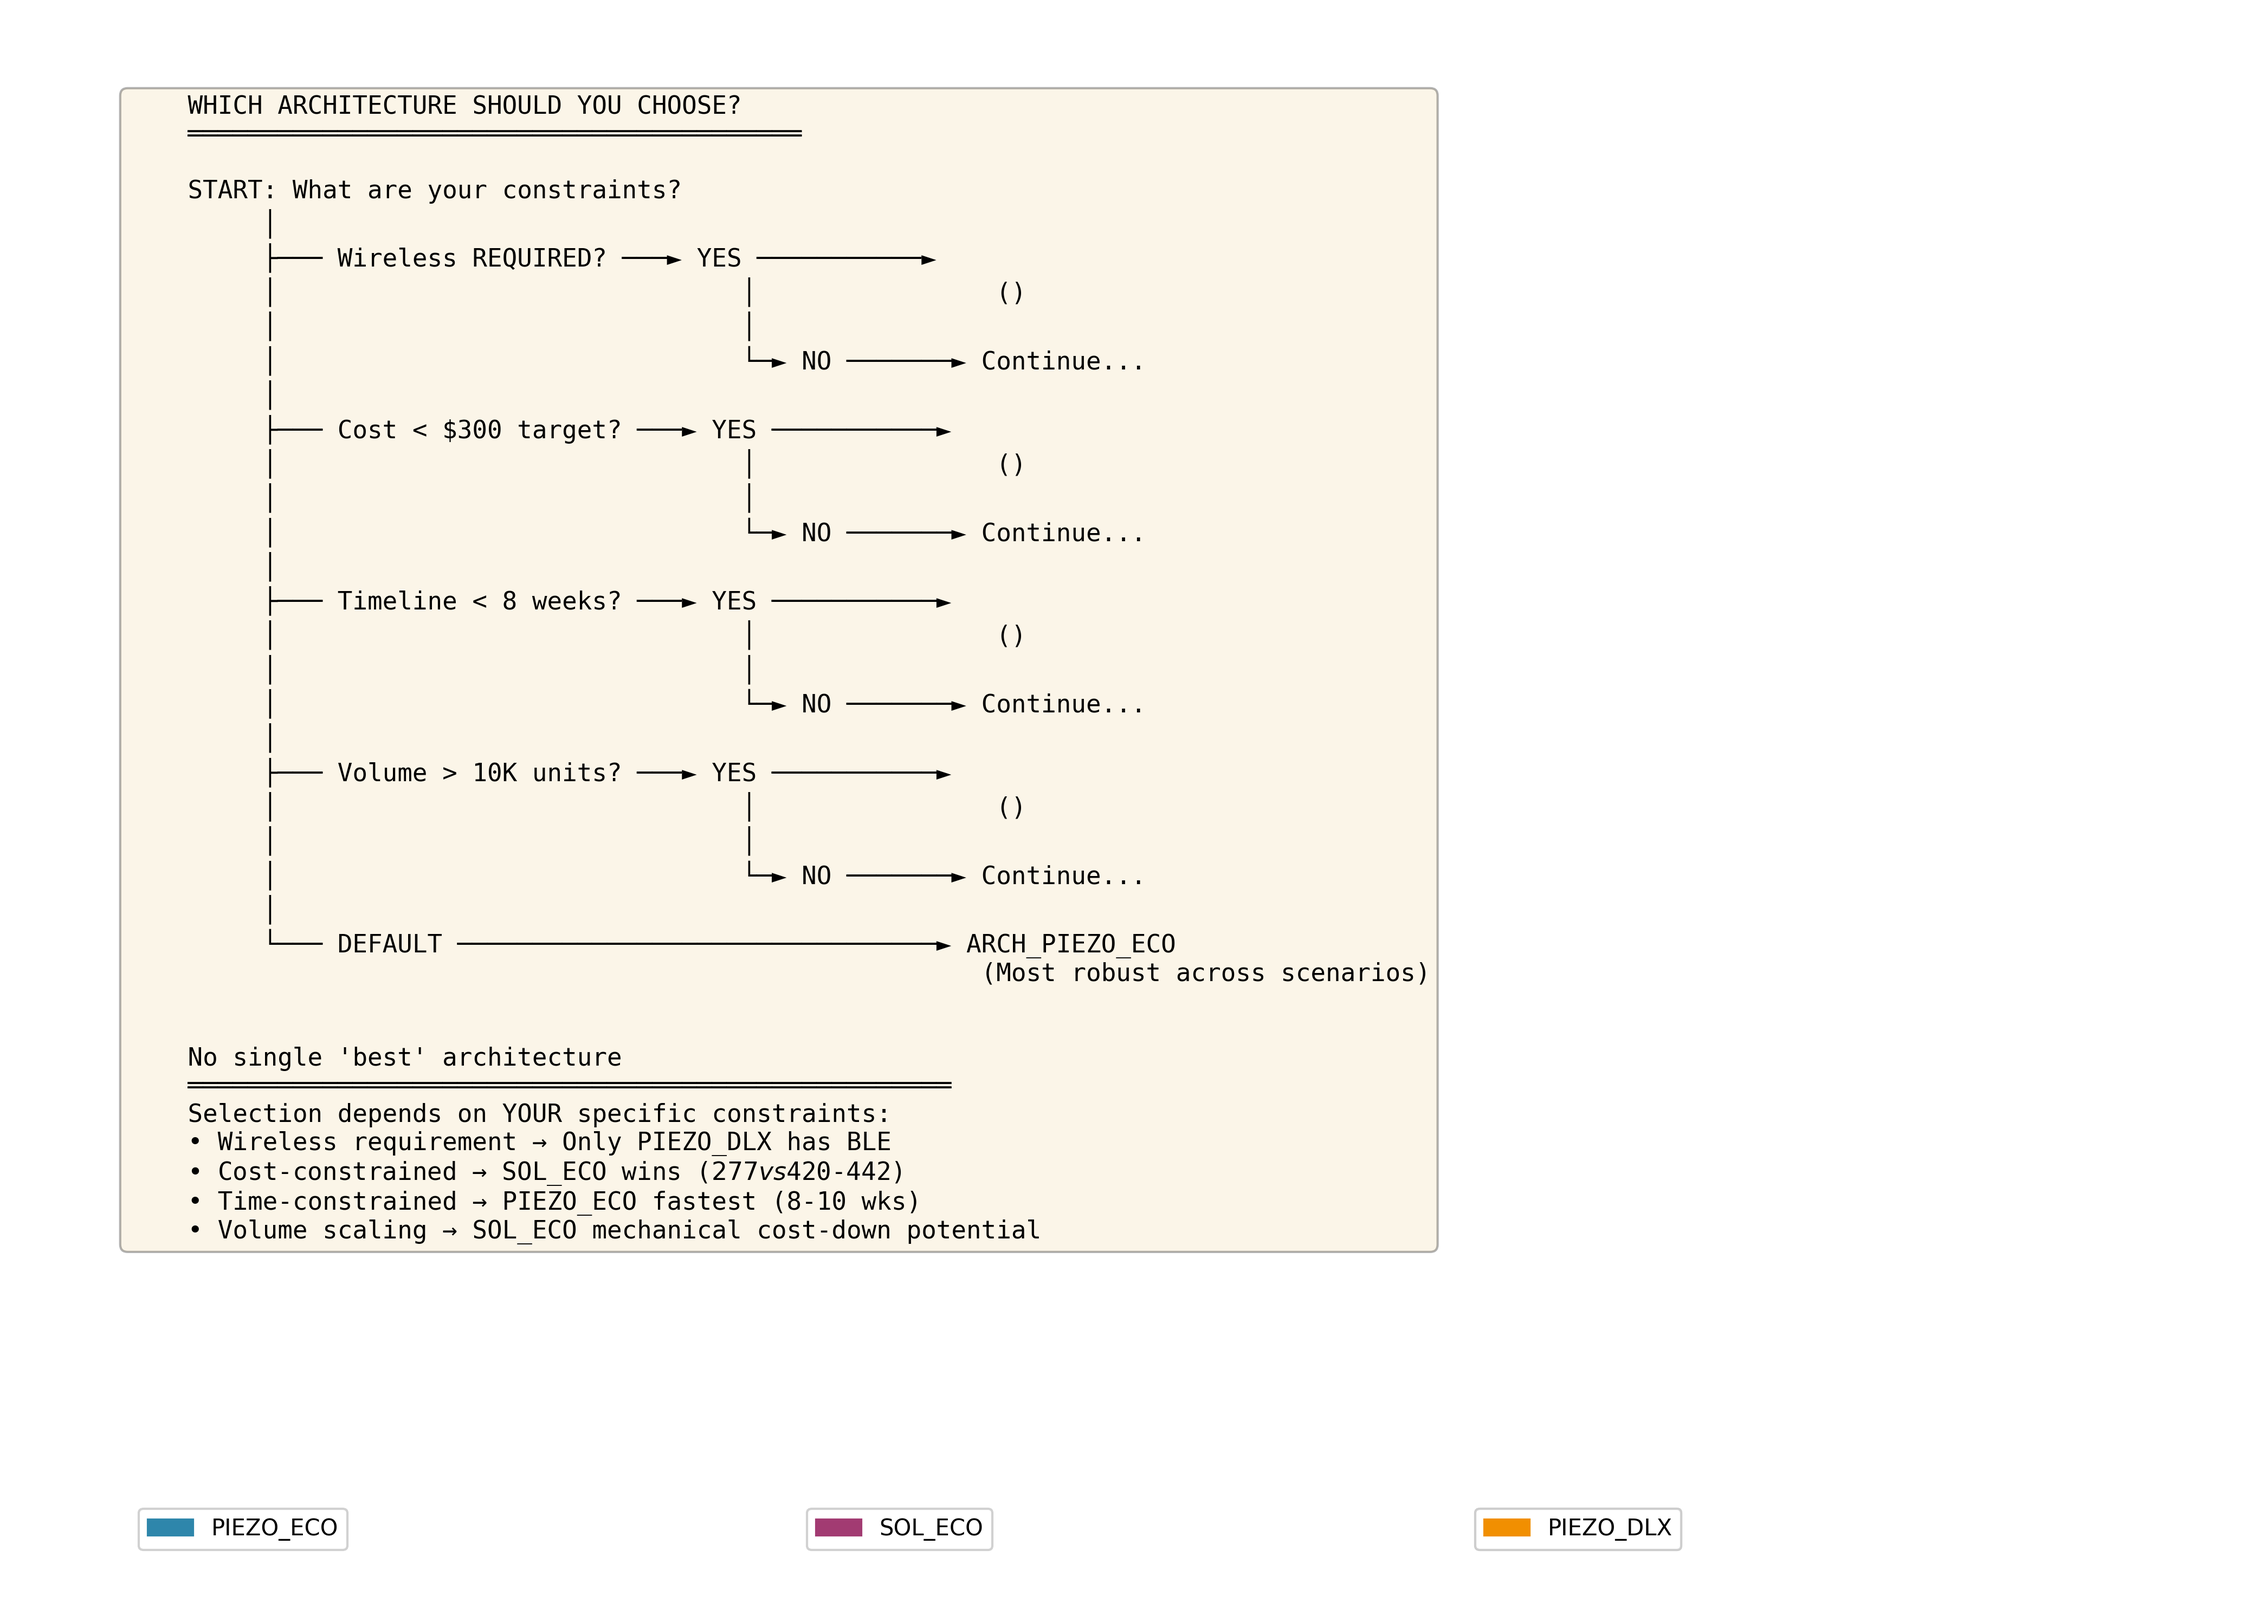
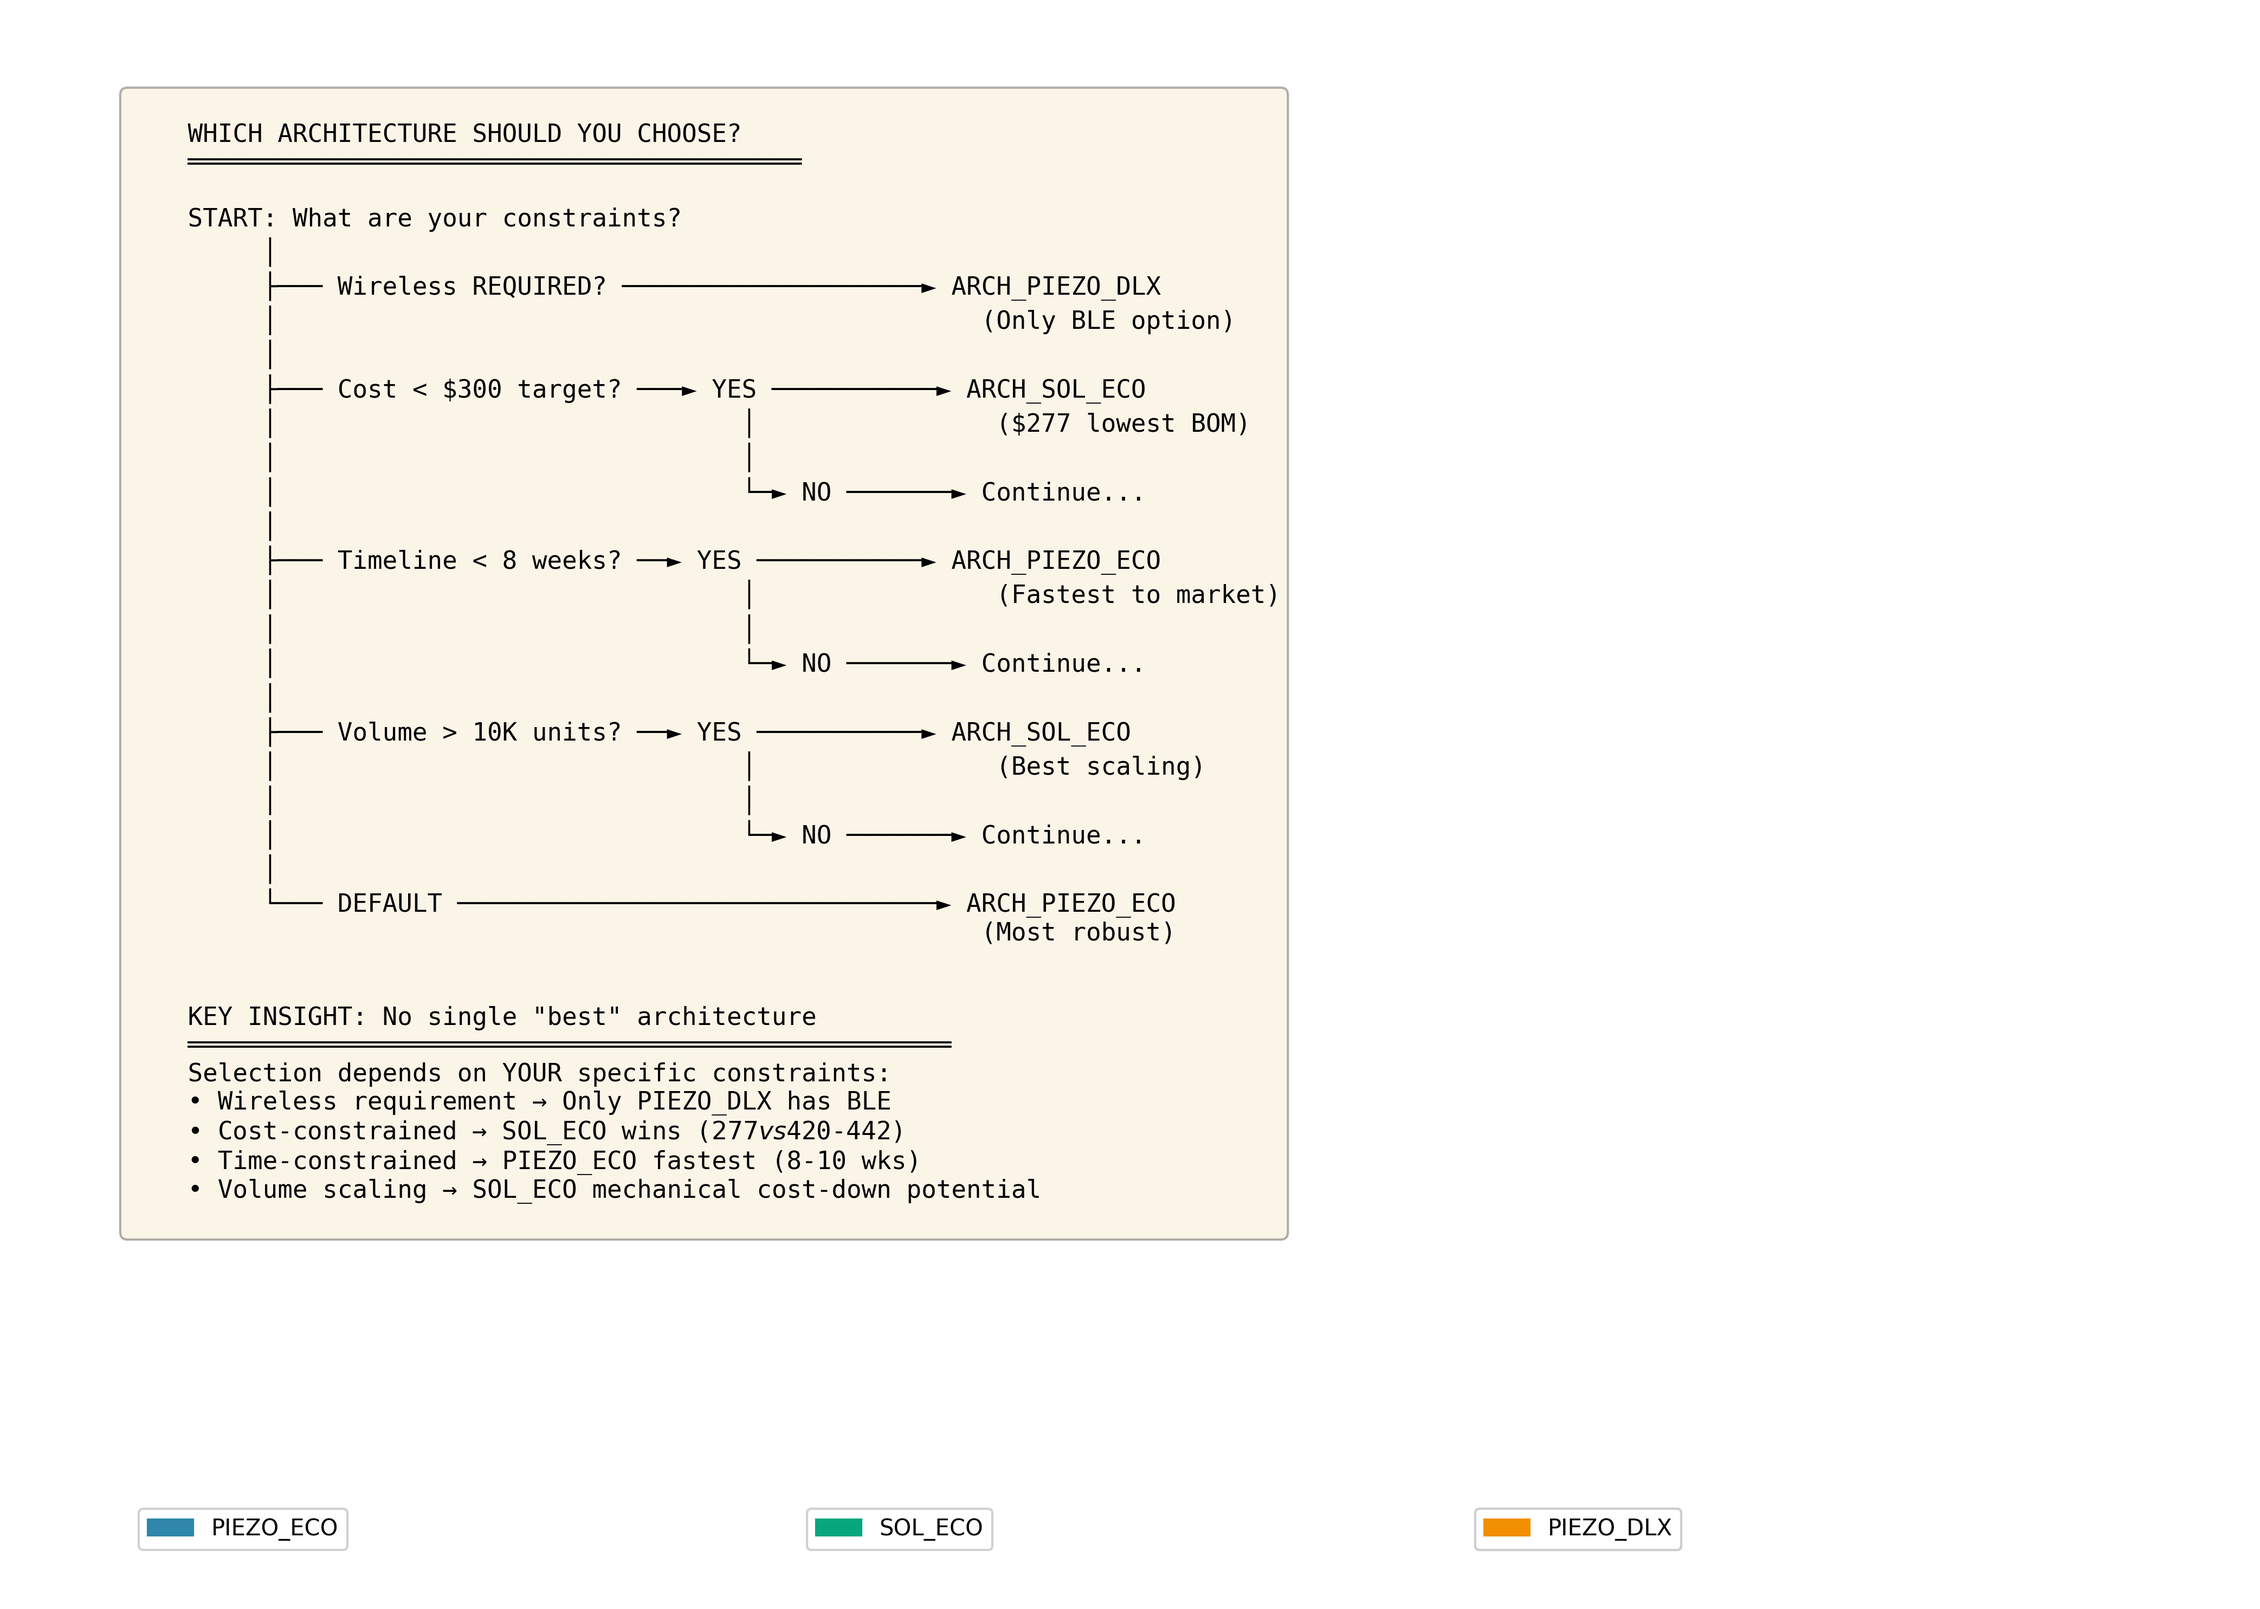
feat(presentation): Add BOM cost slide and fix radar chart data extraction
Changes:
- Added new "BOM Cost Comparison" slide to presentation-marp.md
  Shows pilot BOM costs ($505-$605), cost drivers, and mechanical innovation insight

- Fixed generate_tradeoff_charts.py to extract from correct architectures.yaml paths:
  • quantitative.cost.bom_target (was bom_cost_pilot)
  • quantitative.timeline.total_weeks (was timeline_weeks)
  • quantitative.performance.power_consumption_watts (was power_avg_w)
  • qualitative.manufacturing (was manufacturability)
  • qualitative.ux.reliability (was robustness)
  • qualitative.risk.supply_chain (was supply_chain_risk)

- Improved color scheme: Purple/magenta → Teal/green (#06A77D)
  More aesthetically pleasing and colorblind-accessible

- Regenerated all charts with correct differentiated data:
  • architecture-radar-comparison.png - now shows distinct shapes per architecture
  • architecture-cost-comparison.png - teal color for SOL_ECO
  • architecture-timeline-comparison.png - updated colors
  • architecture-decision-tree.png - updated colors

Trade-off table updated with specific technical risks:
- SOL_ECO: "ME complexity (lever)"
- PIEZO_ECO: "EMI risk (λ/4 antenna)"
- PIEZO_DLX: "EMI + BLE cert risk"

🤖 Generated with [Claude Code](https://claude.com/claude-code)

diff --git a/scripts/generate_tradeoff_charts.py b/scripts/generate_tradeoff_charts.py
@@ -28,10 +28,10 @@ ARCHITECTURES_YAML = Path("source/architectures.yaml")
 OUTPUT_DIR = Path("source/images")
 OUTPUT_DIR.mkdir(parents=True, exist_ok=True)
 
-# Color scheme for each architecture (presentation-friendly)
+# Color scheme for each architecture (presentation-friendly, colorblind-safe)
 ARCH_COLORS = {
     "ARCH_PIEZO_ECO": "#2E86AB",  # Blue - economy/standard
-    "ARCH_SOL_ECO": "#A23B72",    # Purple - mechanical innovation
+    "ARCH_SOL_ECO": "#06A77D",    # Teal/green - mechanical innovation (was purple/magenta)
     "ARCH_PIEZO_DLX": "#F18F01",  # Orange - premium/deluxe
 }
 
@@ -175,22 +175,16 @@ def extract_spider_data(architectures):
     for arch in architectures:
         quant = arch.get('quantitative', {})
 
-        # Parse cost (e.g., "$420" → 420)
-        cost_str = quant.get('bom_cost_pilot', '0')
-        cost = float(cost_str.replace('$', '').replace(',', ''))
+        # Parse cost - from nested cost.bom_target (not bom_cost_pilot)
+        cost = float(quant.get('cost', {}).get('bom_target', 0))
         costs.append(cost)
 
-        # Parse timeline (e.g., "8-10" → 9 average)
-        timeline_str = quant.get('timeline_weeks', '8')
-        if '-' in timeline_str:
-            low, high = timeline_str.split('-')
-            timeline = (float(low) + float(high)) / 2
-        else:
-            timeline = float(timeline_str)
+        # Parse timeline - from nested timeline.total_weeks (not timeline_weeks)
+        timeline = float(quant.get('timeline', {}).get('total_weeks', 8))
         timelines.append(timeline)
 
-        # Parse power (e.g., "1.47" → 1.47)
-        power = float(quant.get('power_avg_w', 0))
+        # Parse power - from nested performance.power_consumption_watts (not power_avg_w)
+        power = float(quant.get('performance', {}).get('power_consumption_watts', 0))
         powers.append(power)
 
     # Find min/max for normalization
@@ -216,12 +210,12 @@ def extract_spider_data(architectures):
         timeline_score = normalize_to_scale(timeline, timeline_min, timeline_max, lower_is_better=True)
         power_score = normalize_to_scale(power, power_min, power_max, lower_is_better=True)
 
-        # Parse qualitative ratings
-        ux_score = parse_qualitative_rating(qual.get('ux', ''))
-        mfg_score = parse_qualitative_rating(qual.get('manufacturability', ''))
-        robust_score = parse_qualitative_rating(qual.get('robustness', ''))
-        supply_score = 10 - parse_qualitative_rating(qual.get('supply_chain_risk', ''))  # Invert: low risk = high score
-        complexity_score = 10 - parse_qualitative_rating(qual.get('complexity', ''))  # Invert: low complexity = high score
+        # Parse qualitative ratings (updated paths to match architectures.yaml structure)
+        ux_score = parse_qualitative_rating(qual.get('ux', ''))  # Dict with setup/convenience/reliability/etc
+        mfg_score = parse_qualitative_rating(qual.get('manufacturing', ''))  # Was 'manufacturability', now 'manufacturing'
+        robust_score = parse_qualitative_rating(qual.get('ux', {}).get('reliability', ''))  # Use ux.reliability as robustness proxy
+        supply_score = 10 - parse_qualitative_rating(qual.get('risk', {}).get('supply_chain', ''))  # Was 'supply_chain_risk', now nested
+        complexity_score = 10 - parse_qualitative_rating(qual.get('complexity', ''))  # Invert: low complexity = high score (dict with hardware/firmware/power/mechanical)
 
         # Build 8-dimension array
         spider_data[arch_id] = [

diff --git a/source/presentation-marp.md b/source/presentation-marp.md
@@ -343,6 +343,26 @@ table {
 
 ---
 
+# BOM Cost Comparison
+
+<img src="images/architecture-cost-comparison.png" alt="BOM Cost Comparison" style="max-height: 450px;">
+
+**Key Insights:**
+- **SOL_ECO:** $505.71 - Lowest cost via 15% actuator savings ($1.70 vs $2.00)
+- **PIEZO_ECO:** $591.99 - Standard piezo approach, USB-C wired
+- **PIEZO_DLX:** $605.67 - Wireless premium (BLE + Li-ion battery adds $13.68)
+
+**Cost Drivers:**
+- Actuators: 55-65% of total BOM ($326-$384 for 192 pins)
+- Wireless subsystem: BLE module + battery + charger = +$13.68 (PIEZO_DLX)
+- Mechanical subsystem: Lever mechanism = +$0 BOM (SOL_ECO design complexity)
+
+> **TAKEAWAY:** SOL_ECO wins cost via mechanical innovation, not cheaper parts.
+
+<!-- Speaker notes: "All three architectures are over $200 BOM target - this is honest engineering. SOL_ECO wins via mechanical innovation (levers enable cheaper solenoids). PIEZO_DLX wireless premium is only $13.68 - BLE module is pre-certified which saves certification cost. Path to $200: volume pricing (10K units), reduce from 32 to 24 cells (25% savings), value engineering (2-layer PCB)." -->
+
+---
+
 # Architecture A: ARCH_PIEZO_ECO
 
 ## Piezo Economy (Wired, Standard)
